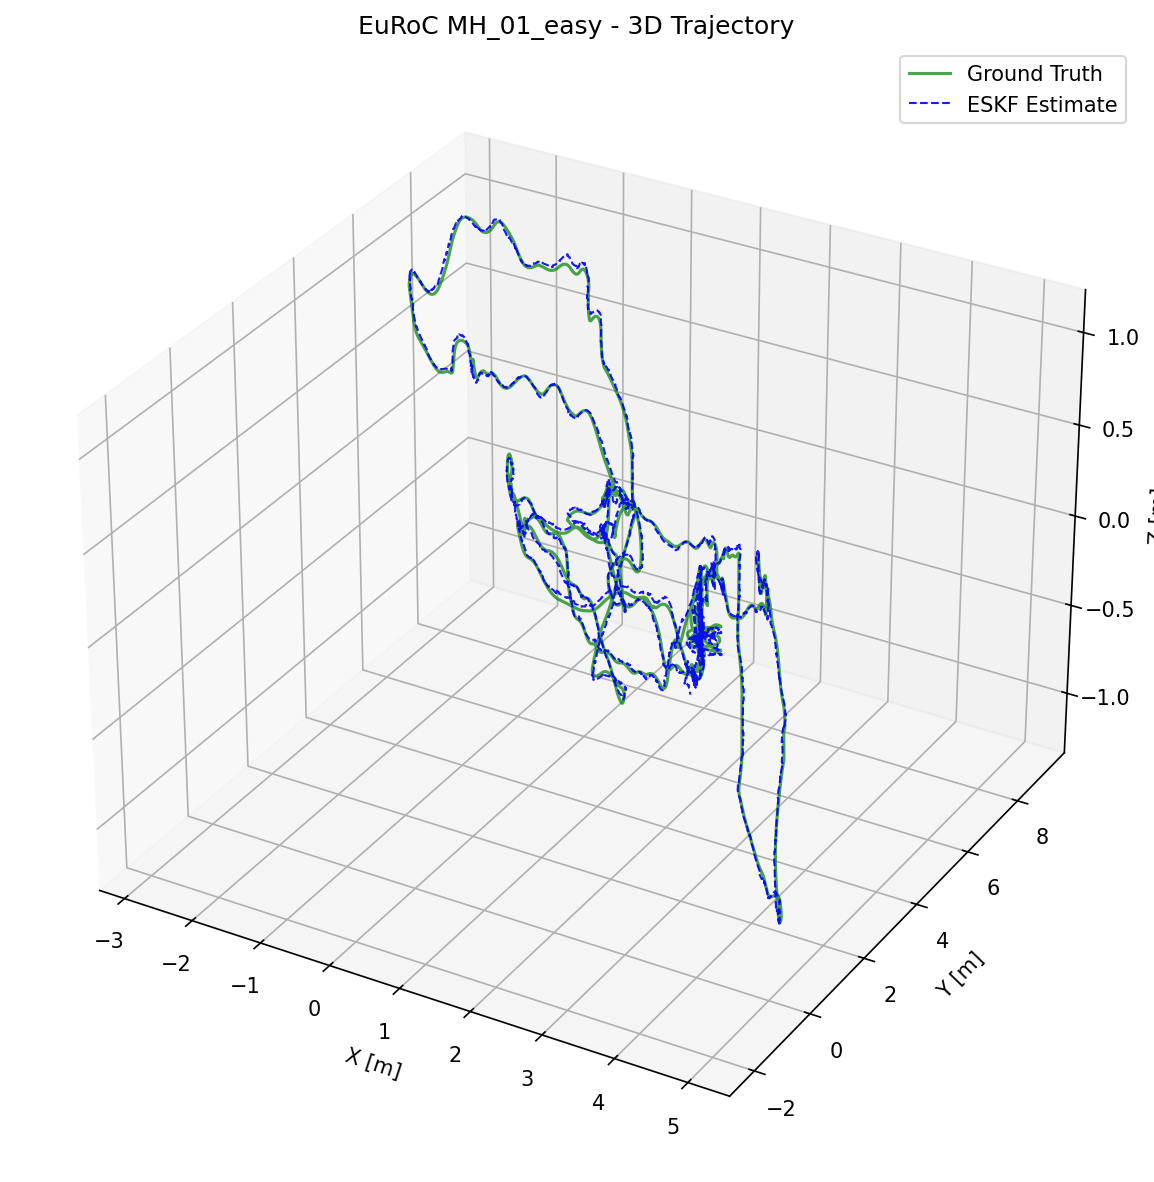
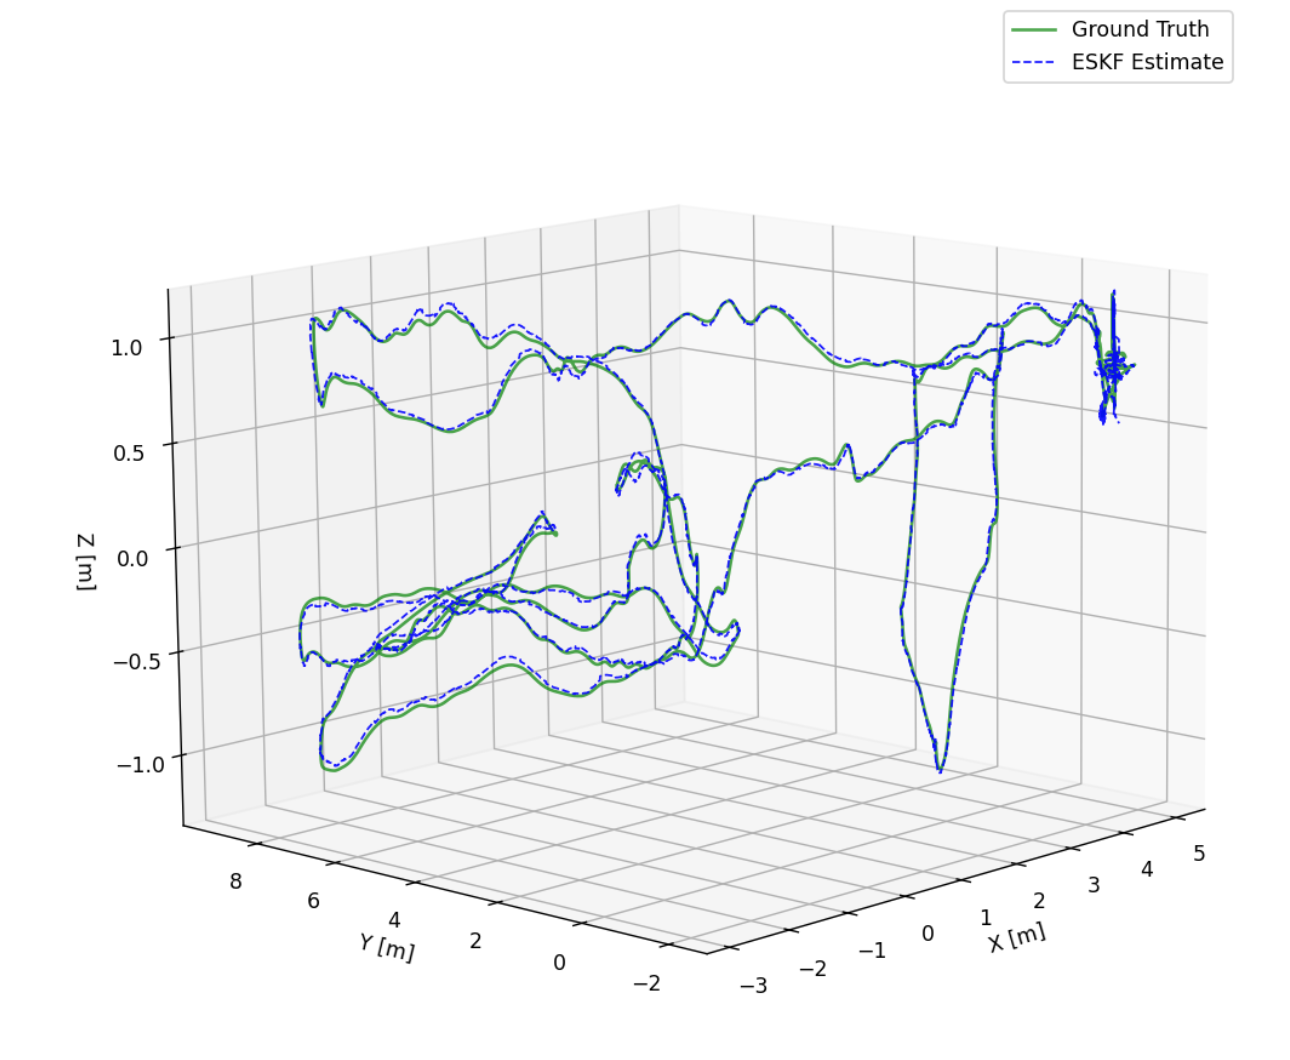
readme update

diff --git a/README.md b/README.md
@@ -5,7 +5,7 @@
 **15-State Error-State Kalman Filter in C++17**
 
 Fuses IMU, GPS, and wheel odometry to estimate 6-DOF pose in real time.
-Built from scratch — no ROS, no frameworks, just Eigen and math.
+Built completely from scratch.
 
 <br>
 
@@ -32,7 +32,7 @@ Built from scratch — no ROS, no frameworks, just Eigen and math.
 </div>
 
 <details>
-<summary><b>📊 Position & Velocity Tracking</b></summary>
+<summary><b>Position & Velocity Tracking</b></summary>
 <br>
 
 <div align="center">
@@ -52,7 +52,7 @@ Built from scratch — no ROS, no frameworks, just Eigen and math.
 </details>
 
 <details>
-<summary><b>📉 Error Analysis with 3σ Bounds</b></summary>
+<summary><b>Error Analysis with 3σ Bounds</b></summary>
 <br>
 
 <div align="center">
@@ -66,7 +66,7 @@ Built from scratch — no ROS, no frameworks, just Eigen and math.
 </details>
 
 <details>
-<summary><b>🖥 Terminal Output</b></summary>
+<summary><b>Terminal Output</b></summary>
 <br>
 
 ```
@@ -74,7 +74,6 @@ Built from scratch — no ROS, no frameworks, just Eigen and math.
   IMU samples processed:    36819
   GPS accepted/rejected:    1719 / 100
   Odom accepted/rejected:   1749 / 70
-  Output written to:        output/trajectory.csv
 
 ==========================================
     Position RMSE (over 36380 samples)
@@ -83,9 +82,6 @@ Built from scratch — no ROS, no frameworks, just Eigen and math.
   Y:    1.618 cm
   Z:    2.117 cm
   3D:   3.228 cm
-==========================================
-  [PASS] RMSE < 5 cm target achieved!
-==========================================
 ```
 
 </details>
